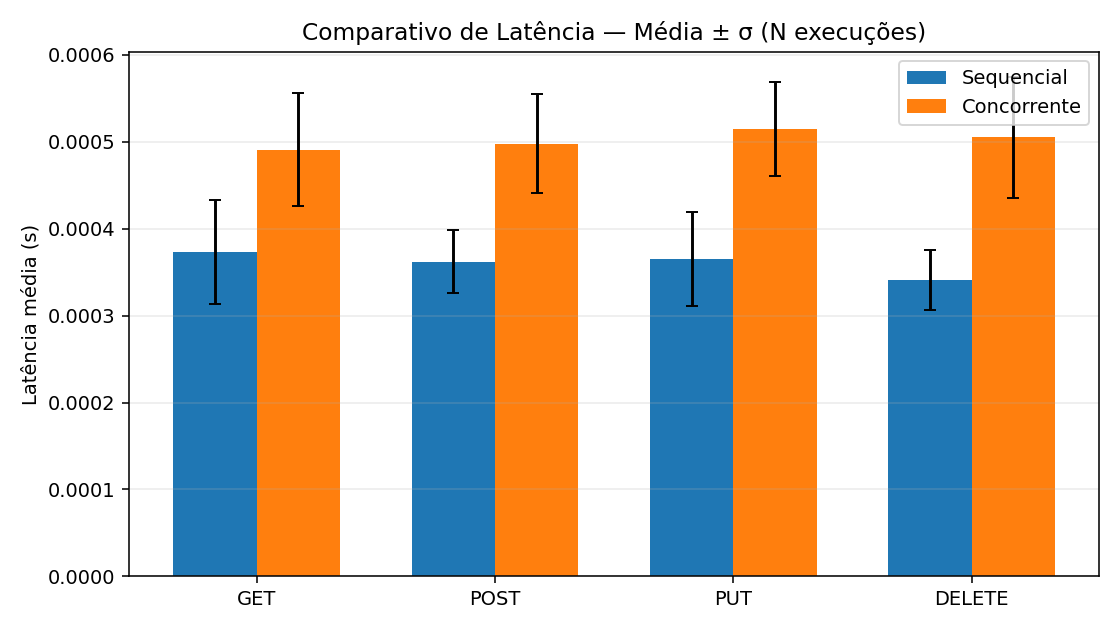
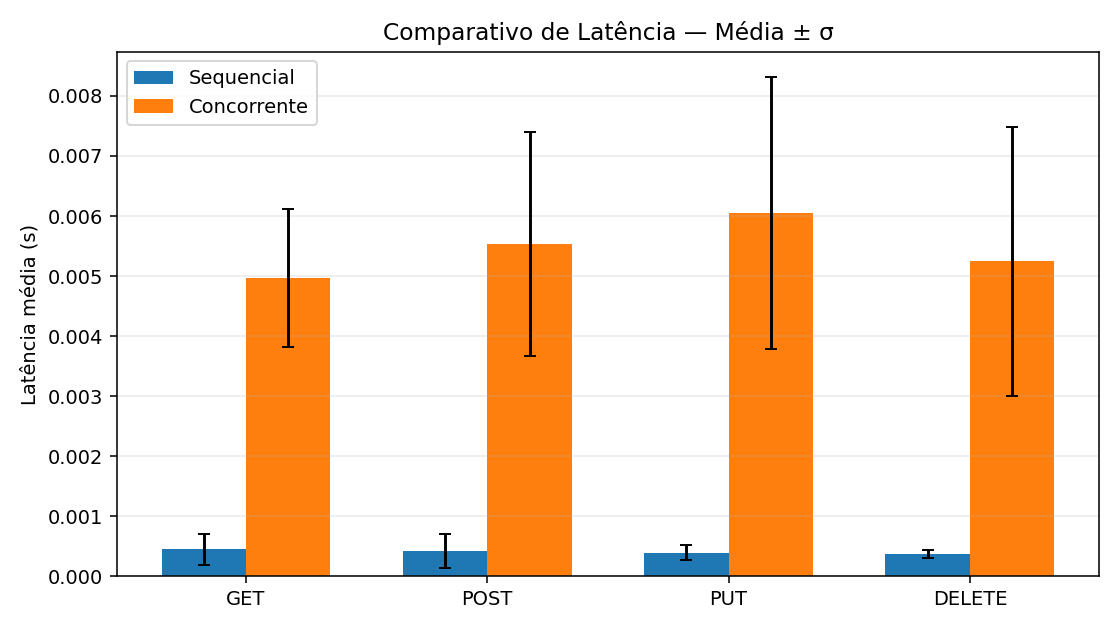
atts

diff --git a/plot_results.py b/plot_results.py
@@ -1,15 +1,18 @@
 import csv
 from collections import defaultdict
 import matplotlib
-matplotlib.use("Agg")  # headless
+matplotlib.use("Agg")  # Para ambientes sem GUI
 import matplotlib.pyplot as plt
 import os
 
 CSV_PATH = "resultados/resultados.csv"
-OUT_PATH = "resultados/grafico_latency.png"
+OUT_PATH_LAT = "resultados/grafico_latency.png"
+OUT_PATH_THR = "resultados/grafico_throughput.png"
 
-# Carrega CSV
+# ===== Carrega CSV =====
 data = defaultdict(dict)
+throughput_data = defaultdict(dict)
+
 with open(CSV_PATH, "r", encoding="utf-8") as f:
     reader = csv.DictReader(f)
     for row in reader:
@@ -17,32 +20,46 @@ with open(CSV_PATH, "r", encoding="utf-8") as f:
         metodo = row["Metodo"]
         media = float(row["Media"])
         desv = float(row["DesvioPadrao"])
+        thr = float(row["Throughput"])
         data[metodo][srv] = (media, desv)
+        throughput_data[metodo][srv] = thr
 
 metodos = ["GET", "POST", "PUT", "DELETE"]
-servs = ["Sequencial", "Concorrente"]
-
-# Monta gráfico de barras com barras de erro (σ)
-fig, ax = plt.subplots(figsize=(8, 4.5), dpi=140)
 x = range(len(metodos))
 width = 0.35
 
+# ===== Gráfico 1 — Latência =====
+fig, ax = plt.subplots(figsize=(8, 4.5), dpi=140)
 seq_means = [data[m].get("Sequencial", (0, 0))[0] for m in metodos]
-seq_errs  = [data[m].get("Sequencial", (0, 0))[1] for m in metodos]
+seq_errs = [data[m].get("Sequencial", (0, 0))[1] for m in metodos]
 con_means = [data[m].get("Concorrente", (0, 0))[0] for m in metodos]
-con_errs  = [data[m].get("Concorrente", (0, 0))[1] for m in metodos]
+con_errs = [data[m].get("Concorrente", (0, 0))[1] for m in metodos]
 
 ax.bar([i - width/2 for i in x], seq_means, width, yerr=seq_errs, label="Sequencial", capsize=3)
 ax.bar([i + width/2 for i in x], con_means, width, yerr=con_errs, label="Concorrente", capsize=3)
-
 ax.set_xticks(list(x))
 ax.set_xticklabels(metodos)
 ax.set_ylabel("Latência média (s)")
-ax.set_title("Comparativo de Latência — Média ± σ (N execuções)")
+ax.set_title("Comparativo de Latência — Média ± σ")
 ax.legend()
 ax.grid(axis="y", alpha=0.25)
-
-os.makedirs("resultados", exist_ok=True)
 plt.tight_layout()
-plt.savefig(OUT_PATH)
-print(f"✅ Gráfico salvo em {OUT_PATH}")
+plt.savefig(OUT_PATH_LAT)
+
+# ===== Gráfico 2 — Throughput =====
+fig, ax2 = plt.subplots(figsize=(8, 4.5), dpi=140)
+seq_thr = [throughput_data[m].get("Sequencial", 0) for m in metodos]
+con_thr = [throughput_data[m].get("Concorrente", 0) for m in metodos]
+
+ax2.bar([i - width/2 for i in x], seq_thr, width, label="Sequencial")
+ax2.bar([i + width/2 for i in x], con_thr, width, label="Concorrente")
+ax2.set_xticks(list(x))
+ax2.set_xticklabels(metodos)
+ax2.set_ylabel("Throughput (req/s)")
+ax2.set_title("Comparativo de Throughput — Requisições por Segundo")
+ax2.legend()
+ax2.grid(axis="y", alpha=0.25)
+plt.tight_layout()
+plt.savefig(OUT_PATH_THR)
+
+print(f"✅ Gráficos salvos em:\n - {OUT_PATH_LAT}\n - {OUT_PATH_THR}")

diff --git a/client.py b/client.py
@@ -24,6 +24,7 @@ os.makedirs("resultados", exist_ok=True)
 CSV_PATH = "resultados/resultados.csv"
 
 
+# ================== FUNÇÕES AUXILIARES ==================
 def http_request(method: str, host: str, port: int, body: bytes = b"") -> bytes:
     """Monta e envia uma requisição HTTP via sockets TCP e retorna bytes da resposta."""
     req_lines = [
@@ -135,10 +136,11 @@ def testar_concorrente(srv_name, host, port, method, n_runs, n_threads):
     return times, amostra
 
 
+# ================== EXECUÇÃO PRINCIPAL ==================
 def main():
     wait_ready()
     with open(CSV_PATH, "w", encoding="utf-8") as f:
-        f.write("Servidor,Metodo,Media,DesvioPadrao,Min,Max,N\n")
+        f.write("Servidor,Metodo,Media,DesvioPadrao,Min,Max,N,Throughput\n")
 
     for srv_name, (host, port) in TARGETS.items():
         print(f"\n==================== TESTANDO SERVIDOR {srv_name} ====================")
@@ -153,9 +155,14 @@ def main():
             if times:
                 media = sum(times) / len(times)
                 desvio = statistics.pstdev(times)
-                print(f"{srv_name} - {method}: média={media:.5f}s | σ={desvio:.5f}s | min={min(times):.5f}s | max={max(times):.5f}s")
+                total_time = sum(times)
+                throughput = len(times) / total_time  # 🔹 requisições por segundo
+
+                print(f"{srv_name} - {method}: média={media:.5f}s | σ={desvio:.5f}s | "
+                      f"min={min(times):.5f}s | max={max(times):.5f}s | throughput={throughput:.2f} req/s")
+
                 with open(CSV_PATH, "a", encoding="utf-8") as f:
-                    f.write(f"{srv_name},{method},{media:.6f},{desvio:.6f},{min(times):.6f},{max(times):.6f},{len(times)}\n")
+                    f.write(f"{srv_name},{method},{media:.6f},{desvio:.6f},{min(times):.6f},{max(times):.6f},{len(times)},{throughput:.2f}\n")
 
     print(f"\n✅ Resultados salvos em {CSV_PATH}")
     print("📎 X-Custom-ID usado:", CUSTOM_ID)

diff --git a/concurrent_server.py b/concurrent_server.py
@@ -45,6 +45,8 @@ def build_options(xcid: str) -> bytes:
 
 
 def handle(conn, addr):
+    print(f"🧵 Thread {threading.current_thread().name} atendendo {addr}")
+
     try:
         data = conn.recv(16384).decode(errors="ignore")
         if not data:
